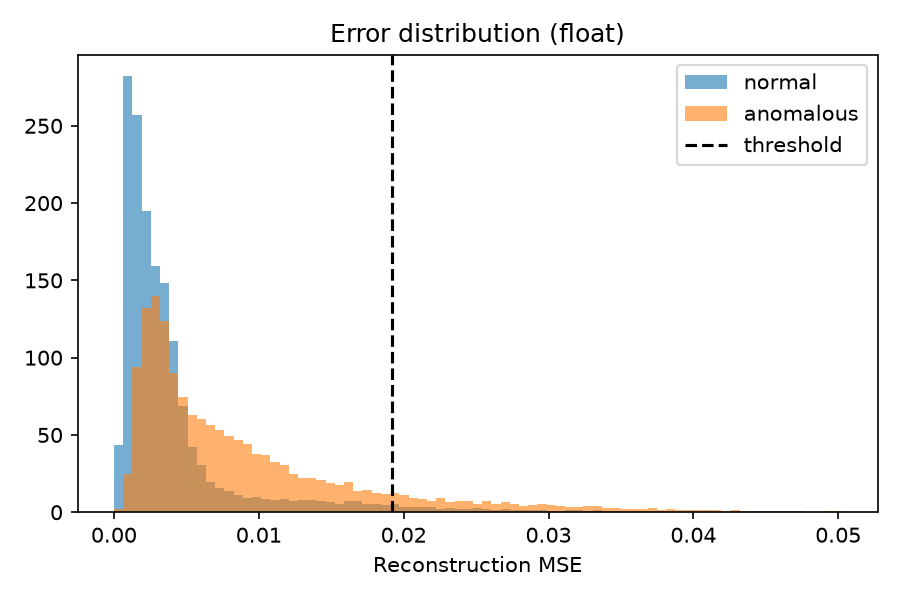
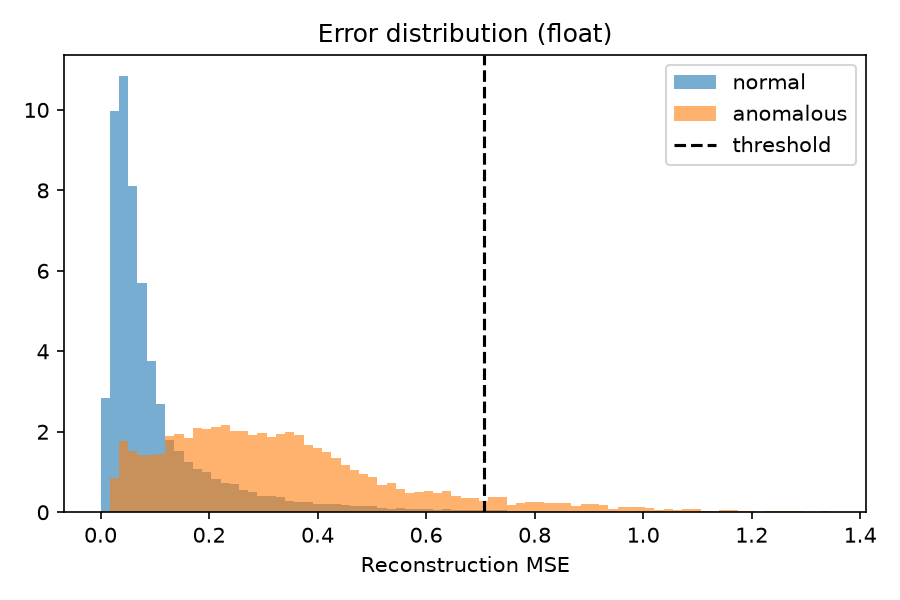
Conv AE with 1-ch bottleneck and peak scoring: AUROC 0.857

diff --git a/src/evaluate.py b/src/evaluate.py
@@ -8,13 +8,19 @@ from . import config as C
 from .dataset import build_split
 from .metrics import summarize, plot_diagnostics
 from .model import recon_error
+from .scoring import scores_from_sq
 
 
 def main():
     model = keras.models.load_model(C.MODELS_DIR / "autoencoder.keras")
     thr = json.load(open(C.MODELS_DIR / "threshold_float.json"))["threshold"]
     print("Loading test split..."); X, y, rec = build_split("test")
-    err = recon_error(model, X)
+    pred = model.predict(X, batch_size=512, verbose=0)
+    sq = ((X - pred) ** 2)[..., 0]
+    print(f"Score mode = {C.SCORE_MODE}.  AUROC by score type (threshold-free):")
+    for m in ("mean", "peak"):
+        print(f"  {m:5s} {roc_auc_score(y, scores_from_sq(sq, m)):.4f}")
+    err = scores_from_sq(sq)
     res = summarize(y, err, thr)
     plot_diagnostics(y, err, thr, "float")
     json.dump(res, open(C.RESULTS_DIR / "float_metrics.json", "w"), indent=2)

diff --git a/src/model.py b/src/model.py
@@ -6,6 +6,7 @@ from tensorflow import keras
 from tensorflow.keras import layers
 
 from . import config as C
+from .scoring import scores_from_sq
 
 
 def build_autoencoder(window=C.WINDOW, bottleneck_ch=C.BOTTLENECK_CH):
@@ -19,10 +20,10 @@ def build_autoencoder(window=C.WINDOW, bottleneck_ch=C.BOTTLENECK_CH):
     return keras.Model(inp, out, name="ecg_autoencoder")
 
 
-def recon_error(model, X, batch_size=512):
-    """Per-window mean squared reconstruction error."""
+def recon_error(model, X, batch_size=512, mode=None):
+    """Per-window anomaly score from squared reconstruction error (see scoring.py)."""
     pred = model.predict(X, batch_size=batch_size, verbose=0)
-    return np.mean((X - pred) ** 2, axis=(1, 2))
+    return scores_from_sq(((X - pred) ** 2)[..., 0], mode)
 
 
 if __name__ == "__main__":

diff --git a/src/scoring.py b/src/scoring.py
@@ -1,0 +1,21 @@
+"""Turn per-sample squared error into one anomaly score per window.
+  mean: average over the whole window (dilutes a single bad beat)
+  peak: highest moving average of PEAK_POOL samples (catches a local anomaly)"""
+import numpy as np
+from . import config as C
+
+
+def scores_from_sq(sq, mode=None, pool=None):
+    """sq: (n, W) or (W,) squared errors -> (n,) scores (or scalar for 1-D input)."""
+    mode = mode or C.SCORE_MODE
+    pool = pool or C.PEAK_POOL
+    one = sq.ndim == 1
+    sq = np.atleast_2d(sq)
+    if mode == "mean":
+        s = sq.mean(axis=1)
+    elif mode == "peak":
+        c = np.cumsum(np.pad(sq, ((0, 0), (1, 0))), axis=1)
+        s = ((c[:, pool:] - c[:, :-pool]) / pool).max(axis=1)
+    else:
+        raise ValueError(mode)
+    return float(s[0]) if one else s

diff --git a/src/config.py b/src/config.py
@@ -39,8 +39,12 @@ BEAT_SYMBOLS = set("NLRBAaJSVrFejnE/fQ?")
 NORMAL_SYMBOL = "N"
 
 # --- Training / threshold ---
-BOTTLENECK_CH = 2   # latent = 45 steps x BOTTLENECK_CH channels
+BOTTLENECK_CH = 1   # latent = 45 steps x BOTTLENECK_CH channels
 EPOCHS = 100
 BATCH_SIZE = 128
 SEED = 42
 THRESHOLD_PERCENTILE = 99.0   # of reconstruction error on validation-normal windows
+
+# --- Anomaly score ---
+SCORE_MODE = "peak"   # "mean" or "peak" (see scoring.py)
+PEAK_POOL = 36        # 0.2 s at 180 Hz

diff --git a/src/tflite_utils.py b/src/tflite_utils.py
@@ -2,6 +2,8 @@
 import numpy as np
 import tensorflow as tf
 
+from .scoring import scores_from_sq
+
 
 class TFLiteAE:
     def __init__(self, path):
@@ -21,7 +23,7 @@ class TFLiteAE:
         return (o - self.out_zp) * self.out_scale
 
     def error(self, x):
-        return float(np.mean((x - self.reconstruct(x)) ** 2))
+        return scores_from_sq(((x - self.reconstruct(x)) ** 2)[:, 0])
 
     def errors(self, X):
         return np.array([self.error(x) for x in X], dtype=np.float32)
